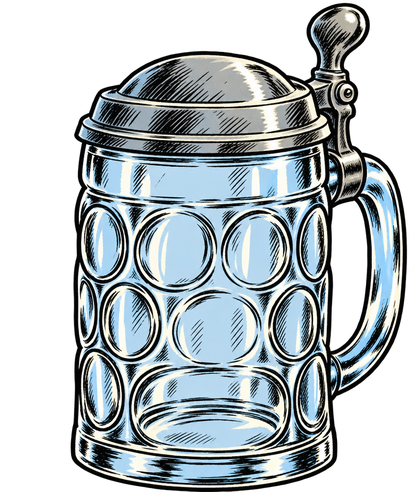
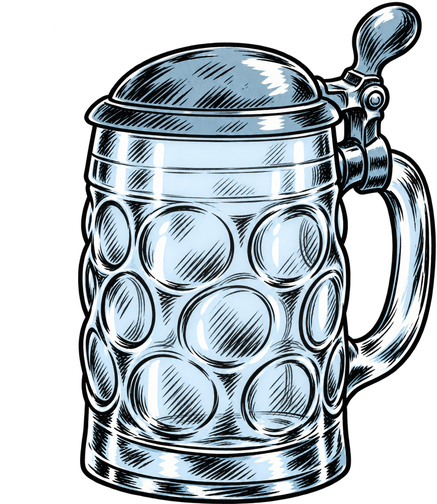
Save screen: tidy right benches, garland end, matching empty mug (r99)
Claude-Session: https://claude.ai/code/session_01GrbNTwVienMcpmsk1Pgq12

diff --git a/guides/DESIGNER_MANUAL.md b/guides/DESIGNER_MANUAL.md
@@ -7681,7 +7681,7 @@ at any button size; only its middle stretches.
 **Beer mug save screen (19 Oct 2026, Anthony: "Three different beer mugs
 (that are the save file) large on a table").** The `slot` rows draw a beer
 tent seen from table height, like his photo (`assets/ui/save/mugs/beer_tent.png`,
-r94-r98: one continuous long table and an even green garland at the back running into the tent under strings of lights, neat
+r94-r99: one continuous long table, one bench and table on each side, an even green garland at the back running into the tent under strings of lights, neat
 flags, the lights' yellow cast taken out for free), and a football on the
 bench on the left (`ball.png`). Every button is the drawn plank
 from the title screen (`button_plank_drawn.png`, `Scale` 1 = drawn smooth at
@@ -7692,7 +7692,7 @@ The three mugs ARE the save files, set in **`data/SaveMugs.csv`**:
 
 | Part | what it sets |
 |---|---|
-| `closed_full`, `open_full`, `closed_empty` | Image = the mug pictures (r96, comic glass): a full mug is a used save, an empty glass is an empty slot, the open lid shows when you click a used mug |
+| `closed_full`, `open_full`, `closed_empty` | Image = the mug pictures (r96 comic glass; r99 empty mug = the same glass as the full one): a full mug is a used save, an empty glass is an empty slot, the open lid shows when you click a used mug |
 | `slot` (one row per save, top = slot 1) | X, Y = the bottom middle of the mug on the 1920 x 1080 screen |
 | `name_text` | under a closed mug, "Slot 1 · 3 matches" on a see-through dark backing: Y = the gap below the mug, Size = letter size |
 | `menu` | under an open mug (Anthony: "have the options be on the bottom"): X = button width, Y = gap below the mug, Size = letter size |
